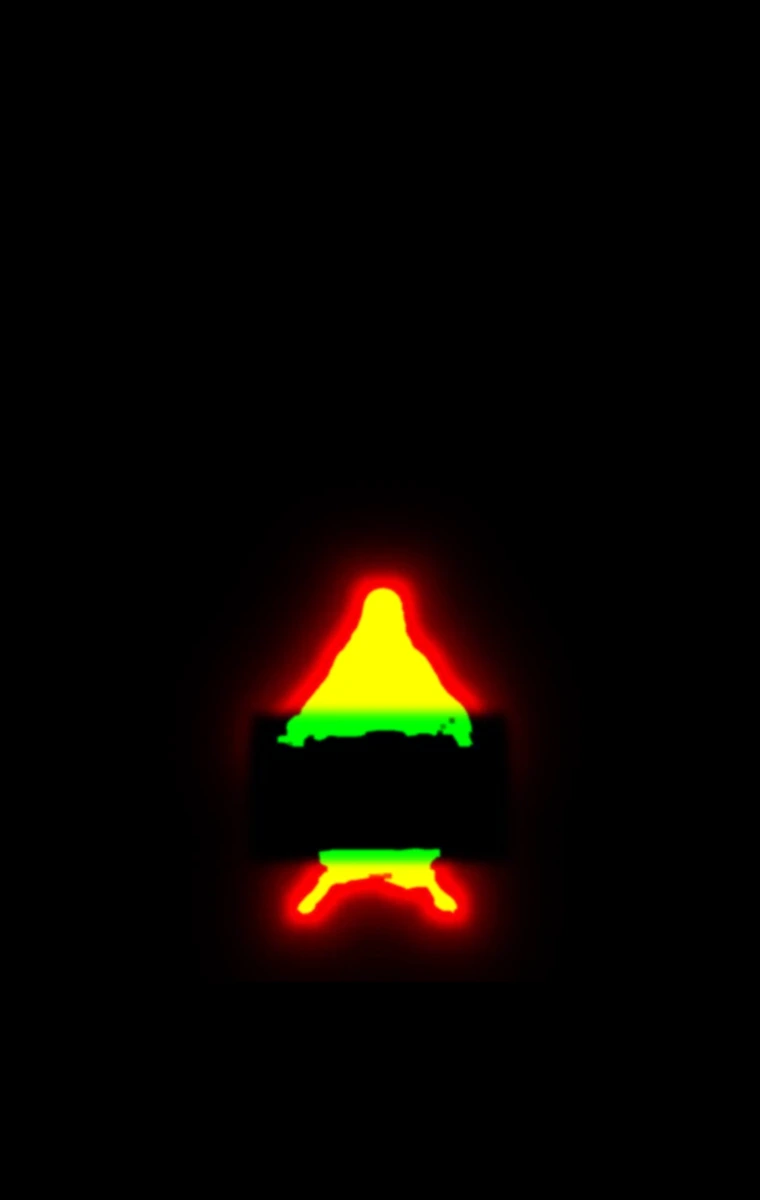
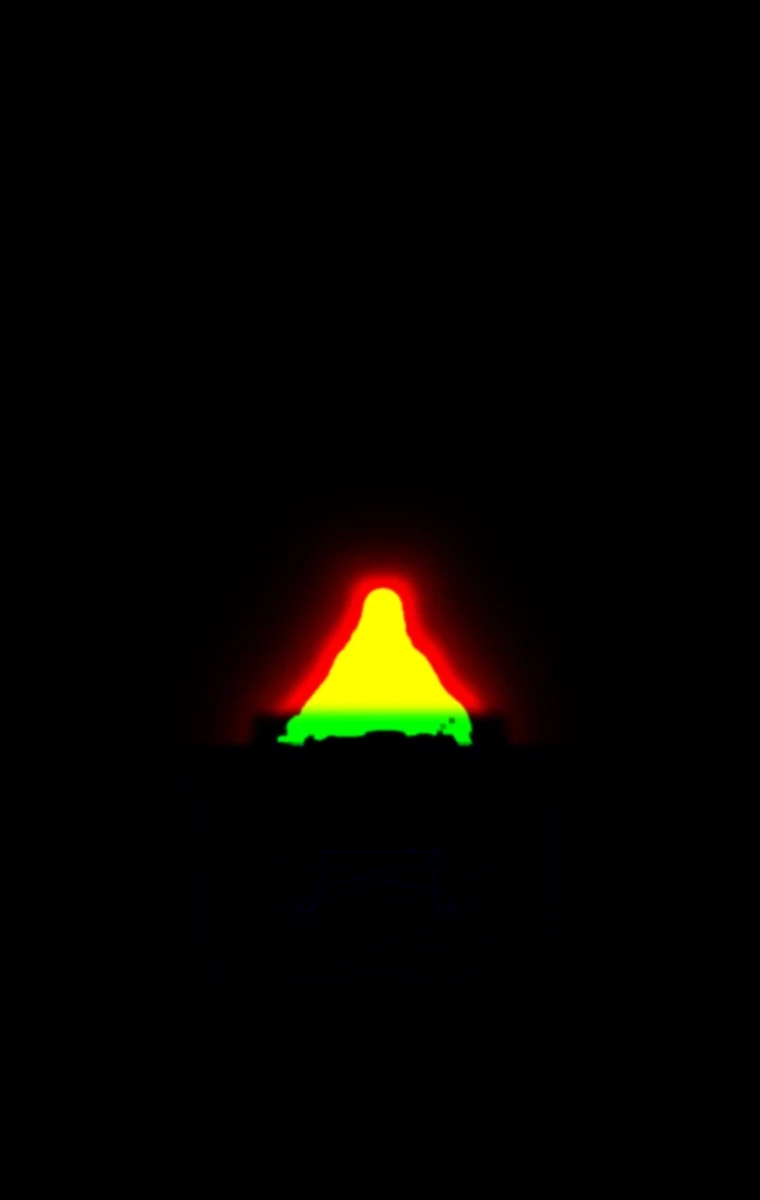
Glitch only around God (not Adam); a glitchier halo; no glitch beneath the table

Changed region(s): [[0.3026, 0.7092, 0.6961, 0.8325], [0.6658, 0.6167, 0.6961, 0.6475], [0.3026, 0.6167, 0.3329, 0.6475]]

diff --git a/public/main.js b/public/main.js
@@ -45,8 +45,8 @@ const load = src => new Promise((res, rej) => { const i = new Image(); i.onload 
 // each picture is one painting grown past Michelangelo's frame; wide and tall screens are cut from it around its focus
 const shape = innerWidth / innerHeight >= .8 ? 'wide' : 'tall';
 if (!gl) { root.classList.add('no-gl'); ready(); }
-else fetch('/img/scene.json?v=1791989529').then(r => r.json()).then(meta =>
-  Promise.all([shape === 'wide' ? 'night-wide' : 'night', shape === 'wide' ? 'night-wide-flow' : 'night-flow', shape === 'wide' ? 'day' : 'day-tall', shape === 'wide' ? 'day-flow' : 'day-tall-flow', shape === 'wide' ? 'supper' : 'supper-tall', shape === 'wide' ? 'supper-flow' : 'supper-tall-flow', shape === 'wide' ? 'day-rift' : 'day-tall-rift', shape === 'wide' ? 'supper-aura' : 'supper-tall-aura'].map(n => load(`/img/${n}.webp?v=1791989529`)))
+else fetch('/img/scene.json?v=1791993889').then(r => r.json()).then(meta =>
+  Promise.all([shape === 'wide' ? 'night-wide' : 'night', shape === 'wide' ? 'night-wide-flow' : 'night-flow', shape === 'wide' ? 'day' : 'day-tall', shape === 'wide' ? 'day-flow' : 'day-tall-flow', shape === 'wide' ? 'supper' : 'supper-tall', shape === 'wide' ? 'supper-flow' : 'supper-tall-flow', shape === 'wide' ? 'day-rift' : 'day-tall-rift', shape === 'wide' ? 'supper-aura' : 'supper-tall-aura'].map(n => load(`/img/${n}.webp?v=1791993889`)))
     .then(ims => paint(gl, ims, meta[shape])))
   .catch(e => { console.error(String(e && e.message || e)); root.classList.add('no-gl'); ready(); });   // log, then fall back
 
@@ -311,9 +311,10 @@ function paint(gl, [nightImg, nightFlow, dayImg, dayFlow, supImg, supFlow, riftI
     if (wS*ms > .01) { vec3 c = glitch(TL, TN, FN_, TD, FD_, RL, vp, .55, 13.); float g_ = wS*ms*GA*.6; col += c*g_; a += g_; }
     TS = 1.;
     // the halo itself: a ring of gold light behind his head, split into colour and torn by the scan like a signal from heaven
-    float hfr = floor(T*2.), hb = floor(vp.y*160.);
-    float hj = (hh(hb + hfr) - .5) * hr * .07 * step(.7, hh(floor(vp.y*40.) + hfr*.7));
-    float rr = length((vp + vec2(hj, 0.) - hc - vec2(hr*.05, 0.))*vec2(1., 1.08)), rg = length((vp + vec2(hj, 0.) - hc)*vec2(1., 1.08)), rb = length((vp + vec2(hj, 0.) - hc + vec2(hr*.05, 0.))*vec2(1., 1.08));
+    float hfr = floor(T*6.), hb = floor(vp.y*160.);
+    float hj = (hh(hb + hfr) - .5) * hr * .2 * step(.45, hh(floor(vp.y*40.) + hfr*.7));   /* the halo itself glitches more */
+    float hs = hr*(.06 + .08*step(.6, hh(hb*.7 + hfr*1.3)));
+    float rr = length((vp + vec2(hj, 0.) - hc - vec2(hs, 0.))*vec2(1., 1.08)), rg = length((vp + vec2(hj, 0.) - hc)*vec2(1., 1.08)), rb = length((vp + vec2(hj, 0.) - hc + vec2(hs, 0.))*vec2(1., 1.08));
     float w = hr*.07, R0 = hr*1.45, up = smoothstep(hc.y - hr*.7, hc.y - hr*.35, vp.y);
     vec3 ring = vec3(exp(-pow((rr - R0)/w, 2.)), exp(-pow((rg - R0)/w, 2.)), exp(-pow((rb - R0)/w, 2.))) * up;
     ring += vec3(1., .85, .5) * exp(-pow((rg - R0)/(w*2.2), 2.)) * .14 * up * smoothstep(R0*.82, R0*.95, rg);   // a soft glow, kept off his hair

diff --git a/public/index.html b/public/index.html
@@ -19,7 +19,7 @@
 <link rel="preconnect" href="https://fonts.googleapis.com">
 <link rel="preconnect" href="https://fonts.gstatic.com" crossorigin>
 <link rel="stylesheet" href="https://fonts.googleapis.com/css2?family=Cinzel:wght@400;500&family=Cormorant+Garamond:ital,wght@0,300;0,400;1,300;1,400&display=swap">
-<link rel="stylesheet" href="/style.css?v=1791989529">
+<link rel="stylesheet" href="/style.css?v=1791993889">
 <script>document.documentElement.classList.add('js')</script>
 </head>
 <body>
@@ -85,6 +85,6 @@
 
 
 <noscript><style>.reveal,.reveal-words,.display .line>span{opacity:1!important;transform:none!important}</style></noscript>
-<script type="module" src="/main.js?v=1791989529"></script>
+<script type="module" src="/main.js?v=1791993889"></script>
 </body>
 </html>

diff --git a/tools/drape.py b/tools/drape.py
@@ -1,0 +1,45 @@
+# Extends the Last Supper's tablecloth down to the floor along the whole table, covering the feet beneath it,
+# then carries the same change into the phone's tall version.
+import gc, torch, numpy as np
+from PIL import Image, ImageFilter
+from diffusers import StableDiffusionXLInpaintPipeline
+img = Image.open('/Users/f/Sites/foundation/src/grown/supper.png').convert('RGB'); W, H = img.size
+X0, X1, Y0, Y1 = 115, 2465, 1078, 1262                     # table ends; cloth hem now; the floor line
+a = np.asarray(img, np.float32).copy()
+# start the hang from the cloth itself: its lower band stretched down, slowly shading toward the floor
+band = a[Y0 - 60:Y0 - 8, X0:X1].mean(0)
+for y in range(Y0 - 8, Y1):
+    t = (y - Y0) / (Y1 - Y0)
+    a[y, X0:X1] = band * (1 - .28 * t)
+pre = Image.fromarray(np.clip(a, 0, 255).astype(np.uint8))
+m = np.zeros((H, W), np.float32); m[Y0 - 14:Y1 + 6, X0 - 6:X1 + 6] = 1
+mask = Image.fromarray((m * 255).astype(np.uint8)).filter(ImageFilter.GaussianBlur(5))
+P = ("Leonardo da Vinci, The Last Supper fresco: the long white linen tablecloth hanging straight down to the floor in soft vertical "
+     "folds and pleats, faded fresco texture, soft shadow at the hem, masterpiece")
+N = "feet, legs, people, shoes, table legs, bench, wood, door, text, blurry"
+pipe = StableDiffusionXLInpaintPipeline.from_pretrained("diffusers/stable-diffusion-xl-1.0-inpainting-0.1", torch_dtype=torch.float16, variant="fp16").to("mps")
+pipe.enable_attention_slicing()
+out = np.asarray(pre, np.float32).copy(); res = np.zeros_like(out); acc = np.zeros((H, W, 1), np.float32)
+xs = list(range(X0 - 100, X1 - 924, 760)) + [X1 - 924]; k = 0
+for x0 in xs:
+    x0 = max(0, min(W - 1024, x0)); y0 = H - 1024
+    crop = pre.crop((x0, y0, x0 + 1024, y0 + 1024)); mc = mask.crop((x0, y0, x0 + 1024, y0 + 1024))
+    r = pipe(prompt=P, negative_prompt=N, image=crop, mask_image=mc, width=1024, height=1024, num_inference_steps=40,
+             guidance_scale=7.5, strength=.95, generator=torch.Generator("cpu").manual_seed(31 + k)).images[0]
+    w = np.ones((1024, 1024), np.float32); ramp = np.linspace(0, 1, 160)
+    if x0 > 0: w[:, :160] *= ramp[None]
+    if x0 + 1024 < W: w[:, -160:] *= ramp[::-1][None]
+    res[y0:y0+1024, x0:x0+1024] += np.asarray(r, np.float32) * w[..., None]; acc[y0:y0+1024, x0:x0+1024] += w[..., None]
+    k += 1; gc.collect(); torch.mps.empty_cache(); print('tile', k, flush=True)
+fine = np.where(acc > 1e-3, res / np.maximum(acc, 1e-4), out)
+mm = np.asarray(mask, np.float32)[..., None] / 255
+final = np.asarray(img, np.float32) * (1 - mm) + fine * mm
+F = Image.fromarray(np.clip(final, 0, 255).astype(np.uint8)); F.save('ls/supper-drape.png')
+# the same change in the tall version (centre crop x 520..2080 scaled x1.282, pasted at y 900, cropped 50..1930 / 208..)
+t = Image.open('/Users/f/Sites/foundation/src/grown/supper-tall.png').convert('RGB')
+cc = F.crop((520, 0, 2080, H)).resize((2000, round(H * 2000 / 1560)), Image.LANCZOS)
+mc = mask.crop((520, 0, 2080, H)).resize((2000, round(H * 2000 / 1560)), Image.LANCZOS)
+big = Image.new('RGB', (2000, cc.height + 1650)); big.paste(cc, (0, 900)); bm = Image.new('L', big.size, 0); bm.paste(mc, (0, 900))
+big = big.crop((50, 208, 1930, 208 + t.height)); bm = bm.crop((50, 208, 1930, 208 + t.height))
+t.paste(big, (0, 0), bm); t.save('ls/supper-tall-drape.png')
+F.crop((900, 820, 1700, 1355)).save('ls/drape-check.jpg'); print('saved', flush=True)

diff --git a/tools/ground_detail.py b/tools/ground_detail.py
@@ -1,0 +1,36 @@
+# Adds Renaissance detail to the phone's bare-earth ground: rock outcrops, earth strata, tufts, stones, at full resolution.
+import sys, gc, torch, numpy as np
+from PIL import Image, ImageFilter
+from diffusers import StableDiffusionXLInpaintPipeline
+seed, out = int(sys.argv[1]), sys.argv[2]
+img = Image.open('/Users/f/Sites/foundation/src/grown/day-tall.png').convert('RGB'); W, H = img.size
+fig = Image.open('/Users/f/Sites/foundation/src/masks/day-tall-figures-rift.png').convert('L').resize((W, H))
+yy, xx = np.mgrid[0:H, 0:W]
+m = np.clip((yy - 1600) / 120., 0, 1) * (1 - np.asarray(fig.filter(ImageFilter.MaxFilter(21)).filter(ImageFilter.GaussianBlur(8)), np.float32) / 255)
+P = ("Leonardo da Vinci and Michelangelo, Renaissance landscape detail: weathered sandstone rock outcrops with cracks and ledges, "
+     "layered earth strata of ochre and umber, tufts of dry grass and small plants, scattered pebbles and stones, a few sparse shrubs, "
+     "receding misty valley with distant blue mountains, finely drawn, sharp painterly detail, muted earthy fresco palette, masterpiece")
+N = ("people, figure, face, body, animal, flowers, roses, garden, path, road, houses, village, bright saturated colours, storybook, "
+     "cartoon, illustration, 3d render, photo, text, frame, border, blurry, smooth, plain, empty")
+pipe = StableDiffusionXLInpaintPipeline.from_pretrained("diffusers/stable-diffusion-xl-1.0-inpainting-0.1", torch_dtype=torch.float16, variant="fp16").to("mps")
+pipe.enable_attention_slicing()
+base = np.asarray(img, np.float32); res = np.zeros_like(base); acc = np.zeros((H, W, 1), np.float32)
+ys = list(range(1500, H - 1024, 600)) + [H - 1024]; k = 0
+for y0 in ys:
+    for x0 in (0, (W - 1024) // 2, W - 1024):
+        crop = img.crop((x0, y0, x0 + 1024, y0 + 1024))
+        st = .62 if y0 > 2000 else .5
+        r = pipe(prompt=P, negative_prompt=N, image=crop, mask_image=Image.new('L', (1024, 1024), 255), width=1024, height=1024,
+                 num_inference_steps=36, guidance_scale=7.5, strength=st, generator=torch.Generator("cpu").manual_seed(seed + k)).images[0]
+        w = np.ones((1024, 1024), np.float32); ramp = np.linspace(0, 1, 200)
+        if y0 > 1500: w[:200] *= ramp[:, None]
+        if y0 + 1024 < H: w[-200:] *= ramp[::-1][:, None]
+        if x0 > 0: w[:, :200] *= ramp[None]
+        if x0 + 1024 < W: w[:, -200:] *= ramp[::-1][None]
+        res[y0:y0+1024, x0:x0+1024] += np.asarray(r, np.float32) * w[..., None]; acc[y0:y0+1024, x0:x0+1024] += w[..., None]
+        k += 1; gc.collect(); torch.mps.empty_cache(); print('tile', k, flush=True)
+fine = np.where(acc > 1e-3, res / np.maximum(acc, 1e-4), base)
+final = base * (1 - m[..., None]) + fine * m[..., None]
+Image.fromarray(np.clip(final, 0, 255).astype(np.uint8)).save(out)
+Image.fromarray(np.clip(final, 0, 255).astype(np.uint8)).resize((486, 802)).save(out.replace('.png', '-s.jpg'), quality=85)
+print('saved', flush=True)
